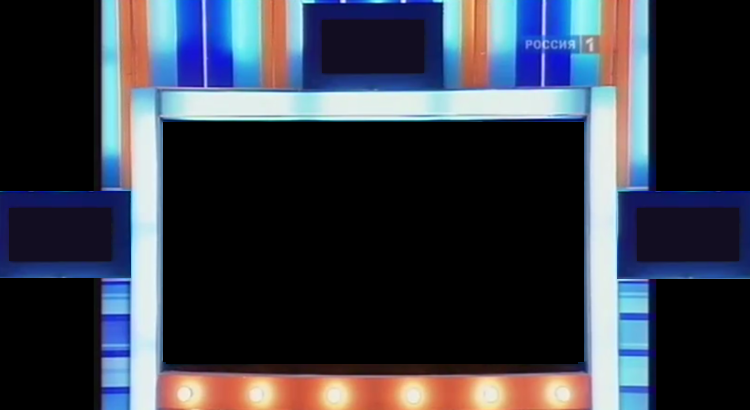
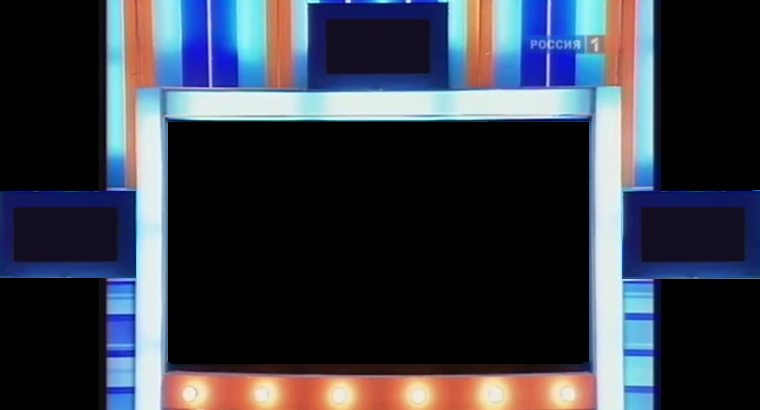
Improved application layouting. Added score boxes.

diff --git a/public/scoreBox.js b/public/scoreBox.js
@@ -1,0 +1,53 @@
+var ScoreBox = function() {
+	ScoreBox._super.call(this);
+	this.value = 0;
+	this._digits = null;
+};
+
+JW.extend(ScoreBox, JW.UI.Component, {
+	/*
+	Fields
+	Integer value;
+	Array<ScoreBox.Digit> _digits;
+	*/
+	
+	// override
+	renderComponent: function() {
+		this._super();
+		this._digits = new JW.Array();
+		for (var i = 0; i < 3; ++i) {
+			var digit = new ScoreBox.Digit();
+			digit.render();
+			digit.el.css("left", (32 * (2 - i)) + "px");
+			this._digits.add(digit);
+		}
+		this.addArray(this._digits);
+		this._redraw();
+	},
+	
+	// override
+	destroyComponent: function() {
+		this._digits.eachByMethod("destroy");
+		this._super();
+	},
+	
+	setValue: function(value) {
+		this.value = value;
+		this._redraw();
+	},
+	
+	_redraw: function() {
+		var value = (this.value >= 1000) ? 999 : this.value;
+		this._digits.get(0).setValue(value % 10);
+		
+		value = Math.floor(value / 10);
+		this._digits.get(1).setValue((value % 10) || null);
+		
+		value = Math.floor(value / 10);
+		this._digits.get(2).setValue((value % 10) || null);
+	}
+});
+
+JW.UI.template(ScoreBox, {
+	main: '<div jwclass="score-box" />'
+});

diff --git a/public/application.js b/public/application.js
@@ -3,7 +3,7 @@
 	this.scoreData = new ScoreData();
 	this.table = null;
 	this.bank = null;
-	this.score = [];
+	this.scores = [];
 	this._lastKeyCode = null;
 	this._onKeyDown = JW.inScope(this._onKeyDown, this);
 };
@@ -21,22 +21,28 @@ JW.extend(Application, JW.UI.Component, {
 	renderTable: function() {
 		return this.table = new Table();
 	},
-	/*
+	
 	renderBank: function() {
-		return this.bank = new BankBox(this.scoreData);
+		return this.bank = new ScoreBox();
 	},
 	
 	renderScore0: function() {
-		return this.scores[0] = new ScoreBox(this.scoreData, 0);
+		return this.scores[0] = new ScoreBox();
 	},
 	
 	renderScore1: function() {
-		return this.scores[1] = new ScoreBox(this.scoreData, 1);
+		return this.scores[1] = new ScoreBox();
 	},
-	*/
+	
 	// override
 	renderComponent: function() {
 		this._super();
+		this.bank.el.css("left", "331px");
+		this.bank.el.css("top", "25px");
+		this.scores[0].el.css("left", "17px");
+		this.scores[0].el.css("top", "213px");
+		this.scores[1].el.css("left", "645px");
+		this.scores[1].el.css("top", "213px");
 		JW.UI.windowEl.bind("keydown", this._onKeyDown);
 	},
 	

diff --git a/public/styles.css b/public/styles.css
@@ -1,12 +1,16 @@
+html {
+	background-color: black;
+}
 .application {
-	position: absolute;
-	width: 750px;
+	position: relative;
+	margin: auto;
+	width: 760px;
 	height: 410px;
 	background: transparent url(images/application.png) no-repeat 0 0;
 }
 .table {
 	position: absolute;
-	left: 163px;
+	left: 168px;
 	top: 122px;
 	width: 420px;
 	height: 240px;
@@ -69,4 +73,15 @@
 }
 .penalty-box-cell.active {
 	background-image: url(images/penalty-active.png);
+}
+.score-box {
+	position: absolute;
+	width: 96px;
+	height: 46px;
+}
+.score-box-digit {
+	position: absolute;
+	width: 31px;
+	height: 46px;
+	background: transparent none no-repeat 0 0;
 }

diff --git a/public/index.html b/public/index.html
@@ -16,6 +16,8 @@
 		<script type="text/javascript" charset="utf-8" src="data.js"></script>
 		<script type="text/javascript" charset="utf-8" src="penaltyBox.js"></script>
 		<script type="text/javascript" charset="utf-8" src="penaltyBox/cell.js"></script>
+		<script type="text/javascript" charset="utf-8" src="scoreBox.js"></script>
+		<script type="text/javascript" charset="utf-8" src="scoreBox/digit.js"></script>
 		<script type="text/javascript" charset="utf-8" src="status.js"></script>
 		<script type="text/javascript" charset="utf-8" src="table.js"></script>
 		<script type="text/javascript" charset="utf-8" src="boot.js"></script>

diff --git a/public/scoreBox/digit.js b/public/scoreBox/digit.js
@@ -1,0 +1,19 @@
+ScoreBox.Digit = function() {
+	ScoreBox.Digit._super.call(this);
+	this.value = null;
+};
+
+JW.extend(ScoreBox.Digit, JW.UI.Component, {
+	setValue: function(value) {
+		this.value = value;
+		if (JW.isSet(value)) {
+			Util.setBackgroundImage(this.el, "images/score-" + value + ".png");
+		} else {
+			this.el.css("background-image", "");
+		}
+	}
+});
+
+JW.UI.template(ScoreBox.Digit, {
+	main: '<div jwclass="score-box-digit" />'
+});
